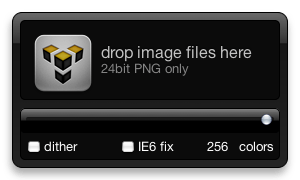
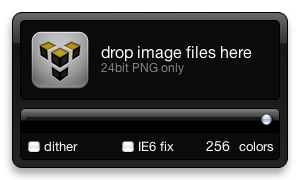
Fixed preference saving on hide

Changed region(s): [[0.09, 0.1667, 0.84, 0.5278], [0.69, 0.7778, 0.78, 0.8333]]

diff --git a/Crusher.dcproj/project/widget.wdgt/main.js b/Crusher.dcproj/project/widget.wdgt/main.js
@@ -34,7 +34,7 @@ function remove()
 function hide()
 {
 	// Stop any timers to prevent CPU usage
-	savePrefs();
+	updatePrefs();
 }
 
 //
@@ -157,12 +157,6 @@ function loadPrefs() {
 	document.getElementById("nameDither").value = prefNameDither;
 	document.getElementById("nameIE6").value = prefNameIE6;
 //	updateDither(dither);
-}
-
-function savePref(key,value) {
-	if (window.widget) {
-		widget.setPreferenceForKey(value,wid+key);
-	}
 }
 
 function updatePrefs() {
@@ -472,10 +466,10 @@ function versionCheckEnd(request){
 			document.getElementById("newVersion").innerHTML = "version "+versions[0]+"<br/>"+versions[1];
 			return showUpdate();
 		} else {
-			alert("you have an up to date version");
+//			alert("you have an up to date version");
 		}
 	} else {
-		alert("there's been an error fetching HTTP data");
+//		alert("there's been an error fetching HTTP data");
 	}
 }
 

diff --git a/Crusher.wdgt/main.js b/Crusher.wdgt/main.js
@@ -34,7 +34,7 @@ function remove()
 function hide()
 {
 	// Stop any timers to prevent CPU usage
-	savePrefs();
+	updatePrefs();
 }
 
 //
@@ -157,12 +157,6 @@ function loadPrefs() {
 	document.getElementById("nameDither").value = prefNameDither;
 	document.getElementById("nameIE6").value = prefNameIE6;
 //	updateDither(dither);
-}
-
-function savePref(key,value) {
-	if (window.widget) {
-		widget.setPreferenceForKey(value,wid+key);
-	}
 }
 
 function updatePrefs() {
@@ -472,10 +466,10 @@ function versionCheckEnd(request){
 			document.getElementById("newVersion").innerHTML = "version "+versions[0]+"<br/>"+versions[1];
 			return showUpdate();
 		} else {
-			alert("you have an up to date version");
+//			alert("you have an up to date version");
 		}
 	} else {
-		alert("there's been an error fetching HTTP data");
+//		alert("there's been an error fetching HTTP data");
 	}
 }
 

diff --git a/Crusher.dcproj/project/widget.wdgt/main.css b/Crusher.dcproj/project/widget.wdgt/main.css
@@ -353,10 +353,10 @@ body {
     line-height: 10px;
     margin-right: auto;
     margin-top: auto;
-    bottom: 30px;
     height: 25px;
     font-size: 11px;
     letter-spacing: 0px;
+    bottom: 28px;
 }
 
 #loc {

diff --git a/Crusher.wdgt/main.css b/Crusher.wdgt/main.css
@@ -353,10 +353,10 @@ body {
     line-height: 10px;
     margin-right: auto;
     margin-top: auto;
-    bottom: 30px;
     height: 25px;
     font-size: 11px;
     letter-spacing: 0px;
+    bottom: 28px;
 }
 
 #loc {
